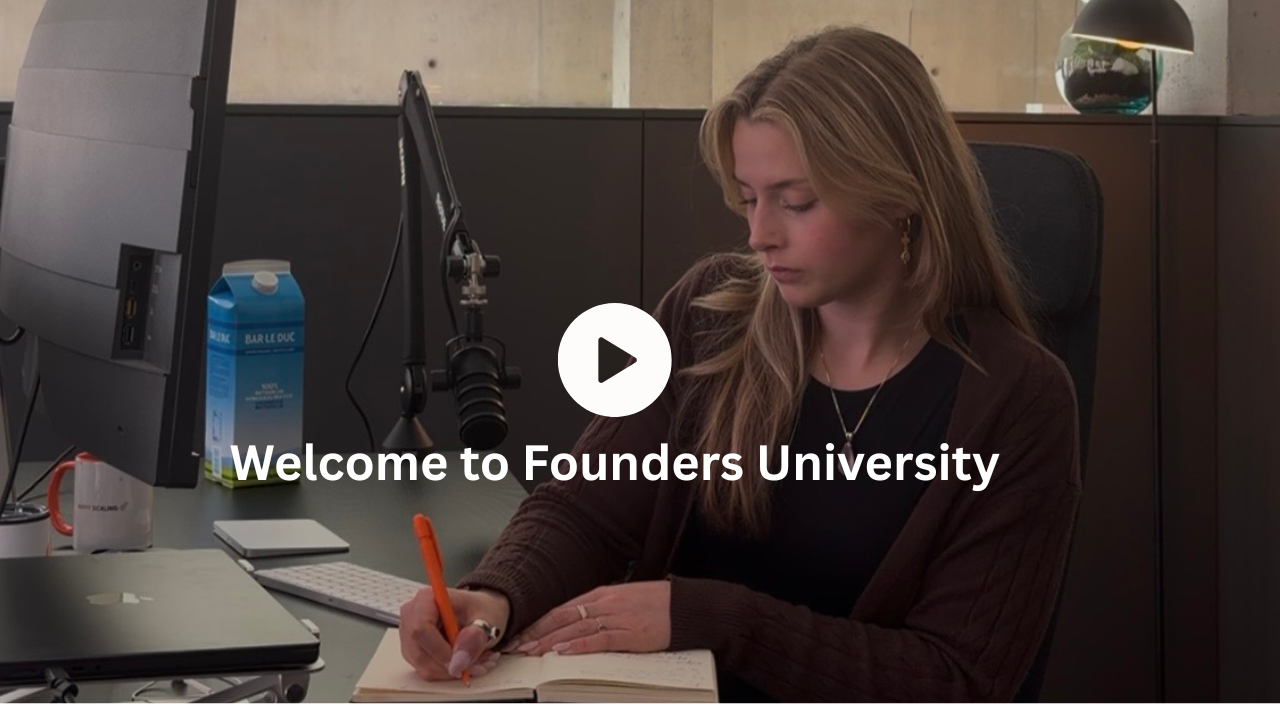
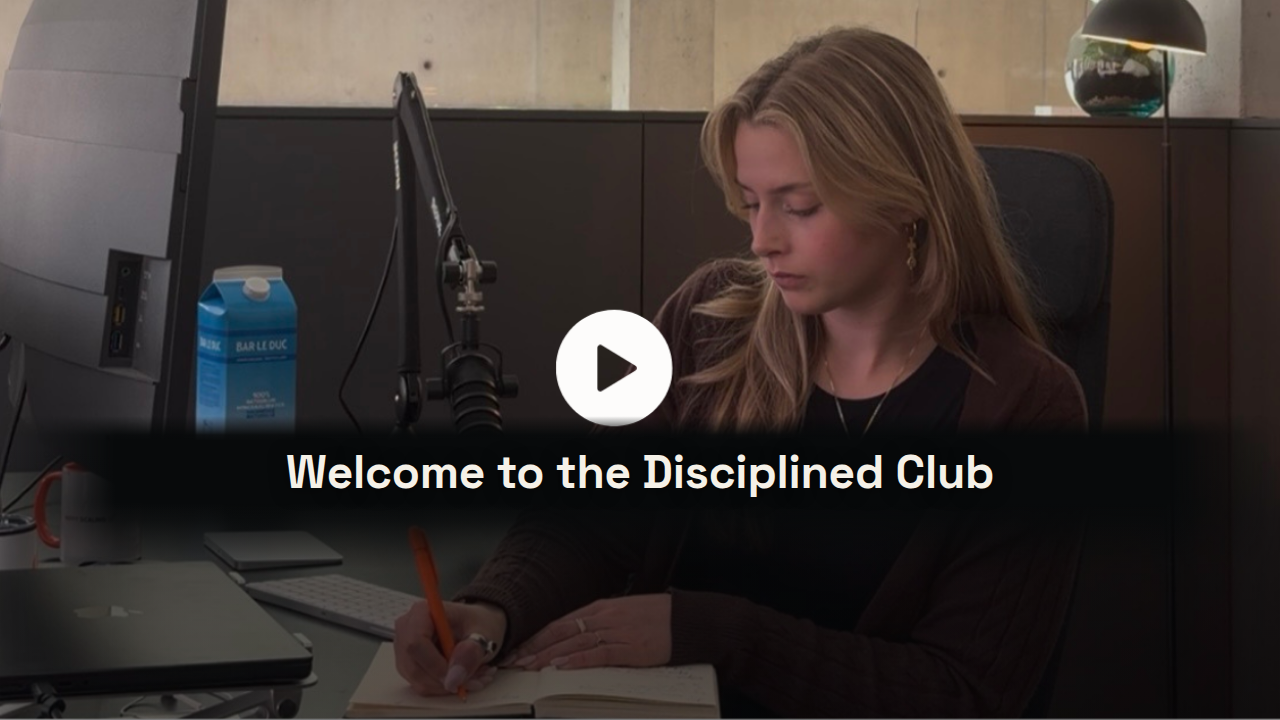
Live Q&A buttons; clear remaining brand references

diff --git a/src/content/site.ts b/src/content/site.ts
@@ -69,6 +69,14 @@ export const offer: OfferConfig = {
   cancelAnytime: true,
 };
 
+export const liveQa = {
+  /** Point this at the Q&A page once it ships. While it is empty every Live Q&A
+      button renders as a non-interactive "soon" chip rather than a dead link. */
+  url: "",
+  label: { en: "Live Q&A", nl: "Live Q&A" } as Record<Locale, string>,
+  soonLabel: { en: "Soon", nl: "Binnenkort" } as Record<Locale, string>,
+};
+
 /** Plan that every CTA outside the pricing card points at. */
 export const primaryPlan: PlanConfig =
   offer.plans.find((plan) => plan.featured) ?? offer.plans[0];
@@ -200,6 +208,7 @@ interface SiteCopy {
   faq: {
     eyebrow: string;
     title: string;
+    liveQaLead: string;
     items: Array<{ question: string; answer: string }>;
   };
   footer: {
@@ -213,7 +222,7 @@ interface SiteCopy {
 export const copy: Record<Locale, SiteCopy> = {
   en: {
     meta: {
-      title: "The Disciplined Club | Build Online With Direction",
+      title: "Disciplined Club | Build Online With Direction",
       description:
         "The Disciplined Club gives ambitious beginners monthly modules, live guidance and a private community to build online with structure.",
     },
@@ -378,6 +387,7 @@ export const copy: Record<Locale, SiteCopy> = {
     faq: {
       eyebrow: "Frequently asked questions",
       title: "Questions before you begin.",
+      liveQaLead: "Still not sure? Bring it to the weekly live Q&A.",
       items: [
         {
           question: "What exactly do members get?",
@@ -416,7 +426,7 @@ export const copy: Record<Locale, SiteCopy> = {
   },
   nl: {
     meta: {
-      title: "The Disciplined Club | Bouw Online Met Richting",
+      title: "Disciplined Club | Bouw Online Met Richting",
       description:
         "The Disciplined Club geeft ambitieuze beginners maandelijkse modules, live begeleiding en een private community om gestructureerd online te bouwen.",
     },
@@ -581,6 +591,7 @@ export const copy: Record<Locale, SiteCopy> = {
     faq: {
       eyebrow: "Veelgestelde vragen",
       title: "Vragen voordat je begint.",
+      liveQaLead: "Twijfel je nog? Stel je vraag in de wekelijkse live Q&A.",
       items: [
         {
           question: "Wat krijgen leden precies?",

diff --git a/src/styles/global.css b/src/styles/global.css
@@ -1,5 +1,5 @@
 /* ============================================================================
-   FOUNDERS UNIVERSITY — "THE ASCENT"
+   THE DISCIPLINED CLUB — "THE ASCENT"
    Dark editorial redesign: clean near-black backgrounds + Space Grotesk type +
    a single brass accent. This is the primary site (loaded on / and /nl/).
    ========================================================================== */
@@ -459,6 +459,28 @@ img {
   background-color: rgba(200, 154, 90, 0.1);
   transform: translateY(-2px);
   box-shadow: none;
+}
+
+/* Live Q&A placeholder — no destination yet, so it must not behave like a link.
+   Declared after .btn--ghost:hover so the inert state wins at equal specificity. */
+.btn--soon {
+  cursor: default;
+  opacity: 0.7;
+}
+
+.btn--soon:hover {
+  border-color: var(--line-strong);
+  background-color: transparent;
+  transform: none;
+}
+
+.btn__soon {
+  border: 1px solid currentColor;
+  border-radius: 999px;
+  padding: 0.15em 0.55em;
+  font-size: 0.8em;
+  letter-spacing: 0.1em;
+  opacity: 0.7;
 }
 
 .btn--block {
@@ -2050,6 +2072,20 @@ body.v2-ready .hero__cue {
   grid-template-columns: 0.7fr 1fr;
   gap: clamp(2.5rem, 7vw, 6rem);
   align-items: start;
+}
+
+.faq__live {
+  display: flex;
+  gap: 1.1rem;
+  flex-direction: column;
+  align-items: flex-start;
+  margin-top: clamp(1.8rem, 3.2vw, 2.8rem);
+}
+
+.faq__live-lead {
+  max-width: 30ch;
+  color: var(--muted);
+  font-size: 1rem;
 }
 
 .faq__item {

diff --git a/README.md b/README.md
@@ -1,6 +1,6 @@
-# Founders University
+# The Disciplined Club
 
-Premium single-page marketing site for Founders University. Static **Astro** site in
+Premium single-page marketing site for The Disciplined Club. Static **Astro** site in
 **TypeScript** — dark editorial theme, a single brass accent, Space Grotesk type, and a
 self-hosted intro video from the founder (Kim). English-only for now; a full Dutch
 translation is built but hidden.
